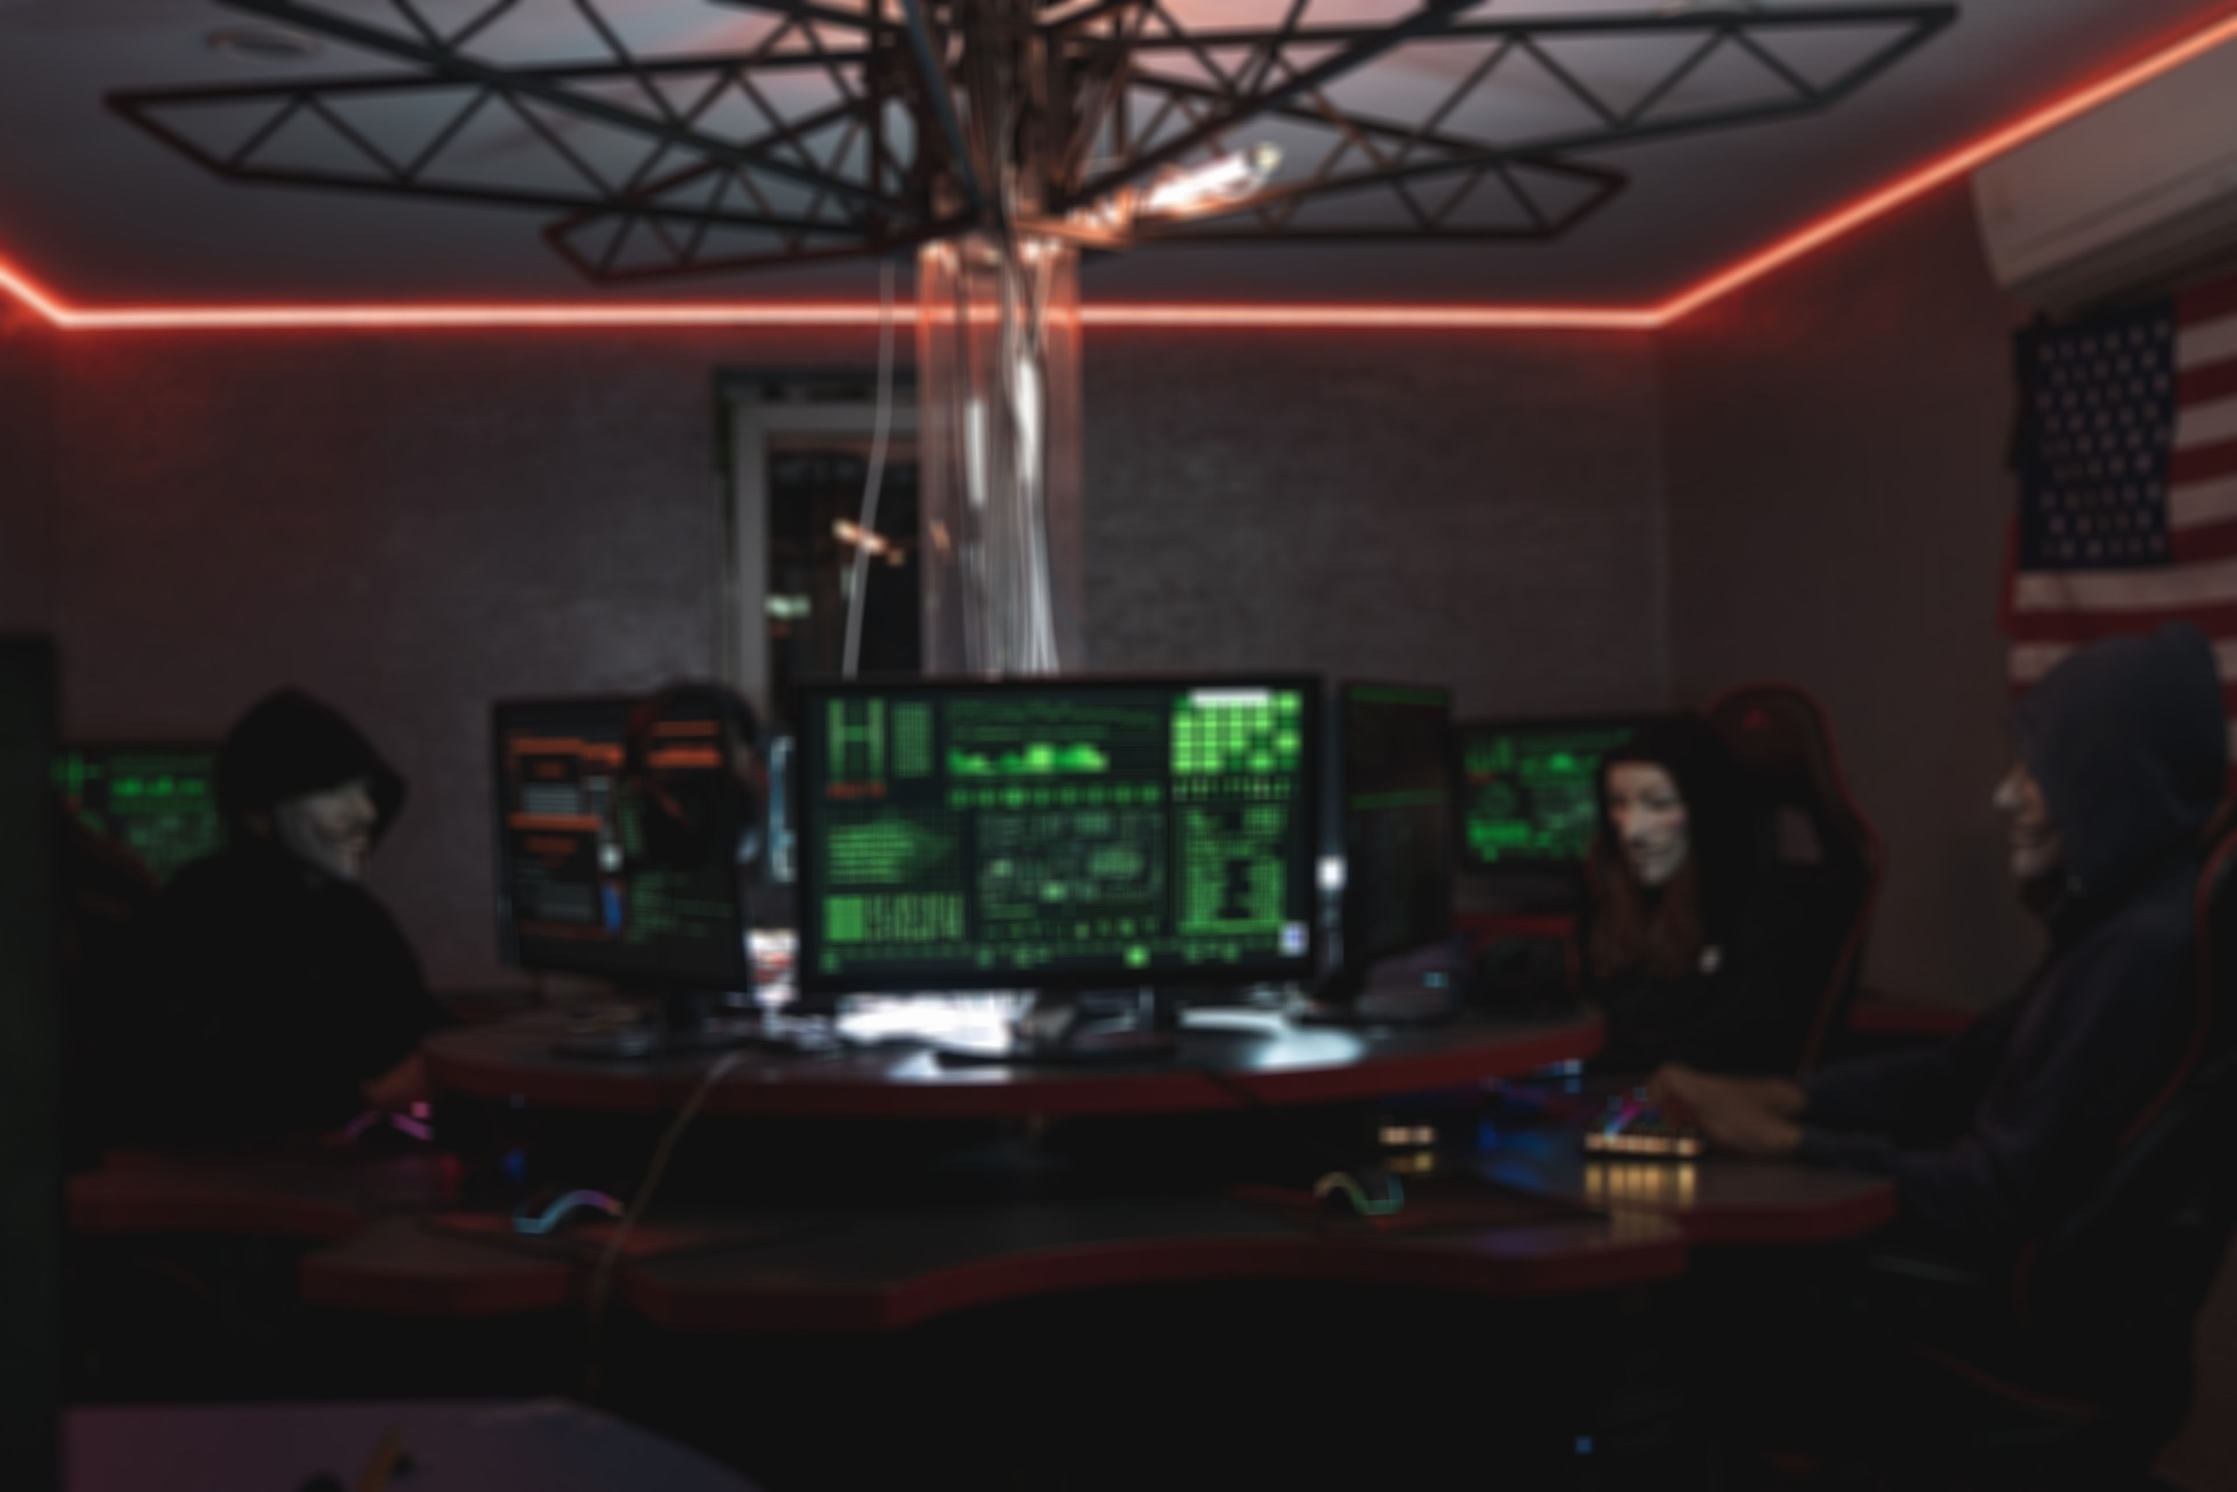
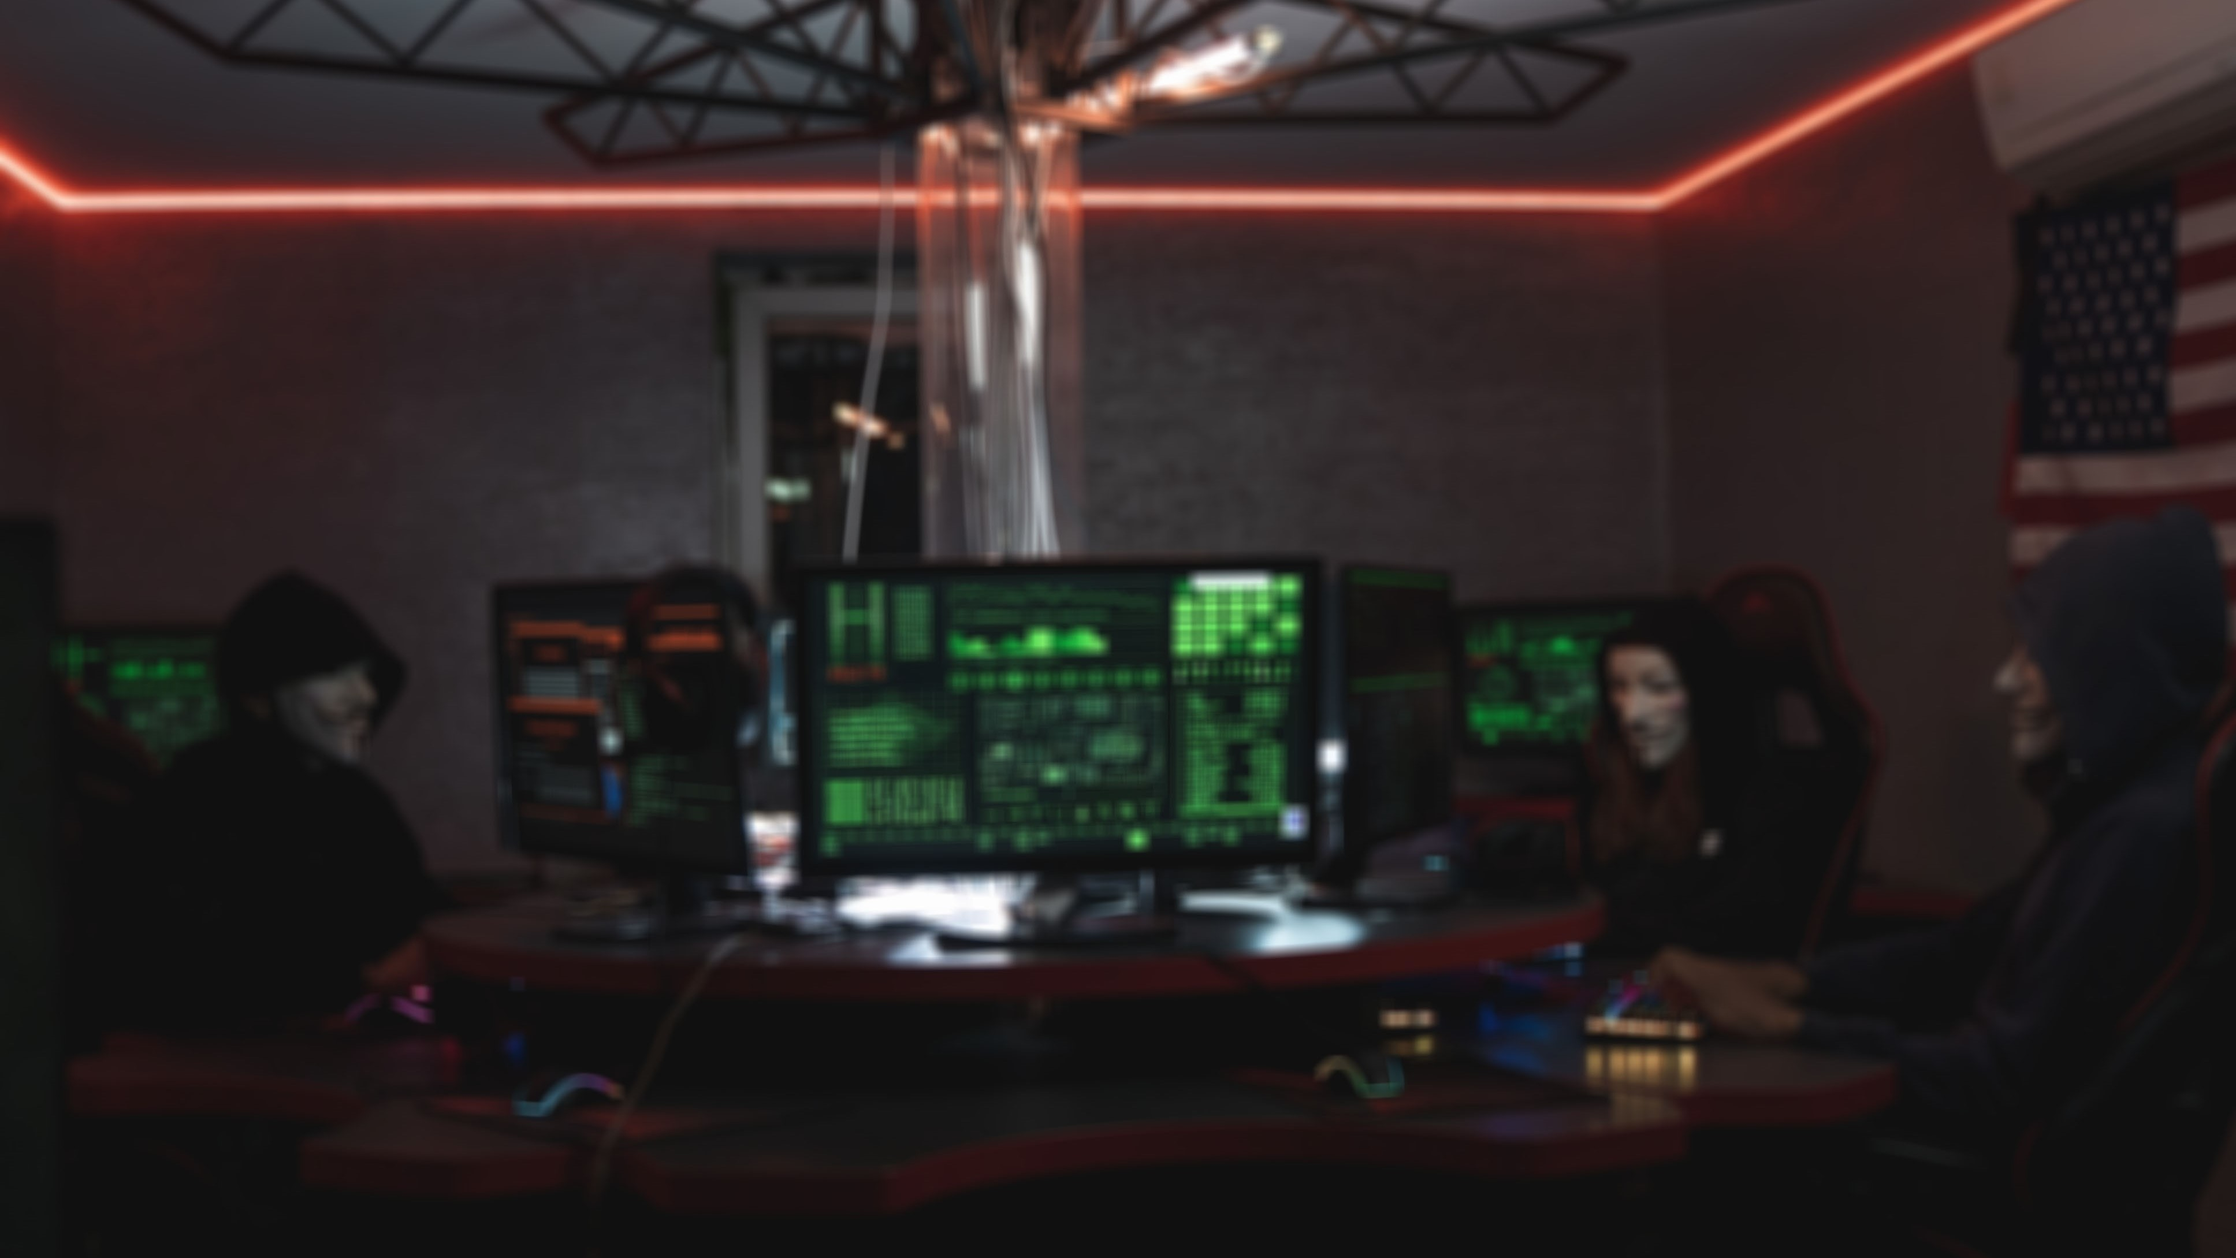
Add all pages; create navbars

diff --git a/index.html b/index.html
@@ -9,19 +9,53 @@
     <meta http-equiv="X-UA-Compatible" content="IE=edge">
   </head>
   <body> <!--style="background-image: linear-gradient(rgba(0, 0, 0, 0.8), rgba(0, 0, 0, 0.8)), url(assets/server.jpg); background-position: center; background-size: cover; background-repeat: no-repeat; background-attachment: fixed;"-->
-    <div class="collapse" id="navbarToggleExternalContent">
-      <div class="bg-dark p-4">
-        <h5 class="text-white h4">Collapsed content</h5>
-        <span class="text-muted">Toggleable via the navbar brand.</span>
+    <div class="mobile-nav">
+      <div class="collapse" id="navbarToggleExternalContent">
+        <div class="bg-dark px-3 pt-3">
+          <ul class="navbar-nav">
+            <li class="nav-item">
+              <a class="nav-link" href="/about.html">About</a>
+            </li>
+            <li class="nav-item">
+              <a class="nav-link" href="/products.html">Products</a>
+            </li>
+            <li class="nav-item">
+              <a class="nav-link" href="/faq.html">FAQ</a>
+            </li>
+            <li class="nav-item">
+              <a class="nav-link" href="/contact.html">Contact</a>
+            </li>
+          </ul>
+        </div>
       </div>
+      <nav class="navbar navbar-dark bg-dark">
+        <div class="container-fluid">
+          <a class="navbar-brand" href="/index.html"><img src="assets/reflex.png" width="100px"></a>
+          <button class="navbar-toggler" type="button" data-bs-toggle="collapse" data-bs-target="#navbarToggleExternalContent" aria-controls="navbarToggleExternalContent" aria-expanded="false" aria-label="Toggle navigation">
+            <span class="navbar-toggler-icon"></span>
+          </button>
+        </div>
+      </nav>
     </div>
-    <nav class="navbar navbar-dark bg-dark">
-      <div class="container-fluid">
-        <button class="navbar-toggler" type="button" data-bs-toggle="collapse" data-bs-target="#navbarToggleExternalContent" aria-controls="navbarToggleExternalContent" aria-expanded="false" aria-label="Toggle navigation">
-          <span class="navbar-toggler-icon"></span>
-        </button>
-      </div>
-    </nav>
+    <div class="desktop-nav">
+      <nav class="navbar navbar-expand-lg navbar-dark bg-dark">
+        <a class="navbar-brand mx-3" href="/index.html"><img src="assets/reflex.png" width="100px"></a>
+        <ul class="navbar-nav ms-auto">
+          <li class="nav-item active mx-3">
+            <a class="nav-link p-0" href="/about.html">About</a>
+          </li>
+          <li class="nav-item mx-3">
+            <a class="nav-link p-0" href="/products.html">Products</a>
+          </li>
+          <li class="nav-item mx-3">
+            <a class="nav-link p-0" href="/faq.html">FAQ</a>
+          </li>
+          <li class="nav-item mx-3">
+            <a class="nav-link p-0" href="/contact.html">Contact</a>
+          </li>
+        </ul>
+      </nav>
+    </div>
     <div class="container container-home mt-5">
       <div id="carouselHome" class="carousel slide" data-bs-ride="carousel">
         <div class="carousel-indicators">
@@ -32,28 +66,28 @@
         </div>
         <div class="carousel-inner">
           <div class="carousel-item active">
-            <img src="assets/web.png" class="d-block w-100 h-100" alt="...">
+            <img src="assets/web.png" class="img-fluid" alt="...">
             <div class="carousel-caption d-none d-md-block">
               <h3>Website Development</h3>
               <p>Static and dynamic website development.</p>
             </div>
           </div>
           <div class="carousel-item">
-            <img src="assets/discord.png" class="d-block w-100 h-100" alt="...">
+            <img src="assets/discord.png" class="img-fluid" alt="...">
             <div class="carousel-caption d-none d-md-block">
               <h3>Discord Bot Development</h3>
               <p>Discord bots to manage your servers and preform various tasks.</p>
             </div>
           </div>
           <div class="carousel-item">
-            <img src="assets/python.jpg" class="d-block w-100 h-100" alt="...">
+            <img src="assets/python.jpg" class="img-fluid" alt="...">
             <div class="carousel-caption d-none d-md-block">
               <h3>Python application Development</h3>
               <p>Python applications for almost anything you would like.</p>
             </div>
           </div>
           <div class="carousel-item">
-            <img src="assets/1337.jpg" class="d-block w-100 h-100" alt="...">
+            <img src="assets/1337.jpg" class="img-fluid" alt="...">
             <div class="carousel-caption d-none d-md-block">
               <h3>Malicious Script</h3>
               <p>Want to be a 1337 hacker man and look cool? Then this service is for you!</p>
@@ -68,6 +102,16 @@
           <span class="carousel-control-next-icon" aria-hidden="true"></span>
           <span class="visually-hidden">Next</span>
         </button>
+      </div>
+      <div class="mobile-home mt-5">
+        <h1>Website Development</h1>
+        <p>Static and dynamic website development.</p>
+        <h1>Discord Bot Development</h1>
+        <p>Discord bots to manage your servers and preform various tasks.</p>
+        <h1>Python application Development</h1>
+        <p>Python applications for almost anything you would like.</p>
+        <h1>Malicious Script</h1>
+        <p>Want to be a 1337 hacker man and look cool? Then this service is for you!</p>
       </div>
     </div>
     <script src="https://cdn.jsdelivr.net/npm/@popperjs/core@2.9.2/dist/umd/popper.min.js" integrity="sha384-IQsoLXl5PILFhosVNubq5LC7Qb9DXgDA9i+tQ8Zj3iwWAwPtgFTxbJ8NT4GN1R8p" crossorigin="anonymous"></script>

diff --git a/contact.html b/contact.html
@@ -10,10 +10,57 @@
         <meta http-equiv="X-UA-Compatible" content="IE=edge">
     </head>
     <body>
+        <div class="mobile-nav">
+            <div class="collapse" id="navbarToggleExternalContent">
+              <div class="bg-dark px-3 pt-3">
+                <ul class="navbar-nav">
+                  <li class="nav-item">
+                    <a class="nav-link" href="/about.html">About</a>
+                  </li>
+                  <li class="nav-item">
+                    <a class="nav-link" href="/products.html">Products</a>
+                  </li>
+                  <li class="nav-item">
+                    <a class="nav-link" href="/faq.html">FAQ</a>
+                  </li>
+                  <li class="nav-item active">
+                    <a class="nav-link" href="/contact.html">Contact</a>
+                  </li>
+                </ul>
+              </div>
+            </div>
+            <nav class="navbar navbar-dark bg-dark">
+              <div class="container-fluid">
+                <a class="navbar-brand" href="/index.html"><img src="assets/reflex.png" width="100px"></a>
+                <button class="navbar-toggler" type="button" data-bs-toggle="collapse" data-bs-target="#navbarToggleExternalContent" aria-controls="navbarToggleExternalContent" aria-expanded="false" aria-label="Toggle navigation">
+                  <span class="navbar-toggler-icon"></span>
+                </button>
+              </div>
+            </nav>
+        </div>
+        <div class="desktop-nav">
+            <nav class="navbar navbar-expand-lg navbar-dark bg-dark">
+              <a class="navbar-brand mx-3" href="/index.html"><img src="assets/reflex.png" width="100px"></a>
+              <ul class="navbar-nav ms-auto">
+                <li class="nav-item mx-3">
+                  <a class="nav-link p-0" href="/about.html">About</a>
+                </li>
+                <li class="nav-item mx-3">
+                  <a class="nav-link p-0" href="/products.html">Products</a>
+                </li>
+                <li class="nav-item mx-3">
+                  <a class="nav-link p-0" href="/faq.html">FAQ</a>
+                </li>
+                <li class="nav-item mx-3 active">
+                  <a class="nav-link p-0" href="/contact.html">Contact</a>
+                </li>
+              </ul>
+            </nav>
+        </div>
         <div class="container mt-5">
-            <div class="card contact-card" style="border-radius: 20px;">
-                <div class="row">
-                    <div class="col-md-6 p-4">
+            <div class="row">
+                <div class="col-lg-6">
+                    <div class="card p-4 mb-4" style="border-radius: 20px;">
                         <h1>Message</h1>
                         <div class="contact-form">
                             <form action="#" method="POST">
@@ -29,7 +76,9 @@
                             </form>
                         </div>
                     </div>
-                    <div class="col-md-6 p-4">                
+                </div>
+                <div class="col-lg-6">
+                    <div class="card p-4 mb-4" style="border-radius: 20px;">
                         <h1>Contact</h1>
                         <ul class="contact-list">
                             <a href="mailto:info@reflexdevelopment.xyz">
@@ -41,13 +90,13 @@
                             <a href="https://www.instagram.com/reflexdevelopment/" target="_blank">
                                 <li><i class="bi bi-instagram"></i>@reflexdevelopment</li>
                             </a>
-                            <a href="https://twitter.com/reflexdevelopm1" target="_blank">
-                                <li><i class="bi bi-twitter"></i>@reflexdevelopm1</li>
+                            <a href="https://twitter.com/reflexdevelop" target="_blank">
+                                <li><i class="bi bi-twitter"></i>@reflexdevelop</li>
                             </a>
                         </ul>
                     </div>
                 </div>
-            </div>  
+            </div>
         </div>
         <script src="https://code.jquery.com/jquery-2.1.3.min.js"></script>
         <script src="https://cdn.jsdelivr.net/npm/bootstrap@5.0.2/dist/js/bootstrap.bundle.min.js" integrity="sha384-MrcW6ZMFYlzcLA8Nl+NtUVF0sA7MsXsP1UyJoMp4YLEuNSfAP+JcXn/tWtIaxVXM" crossorigin="anonymous"></script>

diff --git a/about.html b/about.html
@@ -2,7 +2,7 @@
 <html lang="en" dir="ltr">
     <head>
         <meta charset="UTF-8">
-        <title>Reflex Development | Products</title>
+        <title>Reflex Development | About</title>
         <meta name="viewport" content="width=device-width, inital-scale=1.0">
         <link rel="stylesheet" href="css/styles.css">
         <link href="https://cdn.jsdelivr.net/npm/bootstrap@5.0.2/dist/css/bootstrap.min.css" rel="stylesheet" integrity="sha384-EVSTQN3/azprG1Anm3QDgpJLIm9Nao0Yz1ztcQTwFspd3yD65VohhpuuCOmLASjC" crossorigin="anonymous">
@@ -14,10 +14,10 @@
             <div class="collapse" id="navbarToggleExternalContent">
               <div class="bg-dark px-3 pt-3">
                 <ul class="navbar-nav">
-                  <li class="nav-item">
+                  <li class="nav-item active">
                     <a class="nav-link" href="/about.html">About</a>
                   </li>
-                  <li class="nav-item active">
+                  <li class="nav-item">
                     <a class="nav-link" href="/products.html">Products</a>
                   </li>
                   <li class="nav-item">
@@ -42,10 +42,10 @@
             <nav class="navbar navbar-expand-lg navbar-dark bg-dark">
               <a class="navbar-brand mx-3" href="/index.html"><img src="assets/reflex.png" width="100px"></a>
               <ul class="navbar-nav ms-auto">
-                <li class="nav-item mx-3">
+                <li class="nav-item mx-3 active">
                   <a class="nav-link p-0" href="/about.html">About</a>
                 </li>
-                <li class="nav-item mx-3 active">
+                <li class="nav-item mx-3">
                   <a class="nav-link p-0" href="/products.html">Products</a>
                 </li>
                 <li class="nav-item mx-3">
@@ -58,7 +58,7 @@
             </nav>
         </div>
         <div class="container mt-5">
-            <h1>Products</h1>
+            <h1>About</h1>
         </div>
         <script src="https://code.jquery.com/jquery-2.1.3.min.js"></script>
         <script src="https://cdn.jsdelivr.net/npm/bootstrap@5.0.2/dist/js/bootstrap.bundle.min.js" integrity="sha384-MrcW6ZMFYlzcLA8Nl+NtUVF0sA7MsXsP1UyJoMp4YLEuNSfAP+JcXn/tWtIaxVXM" crossorigin="anonymous"></script>

diff --git a/faq.html b/faq.html
@@ -2,7 +2,7 @@
 <html lang="en" dir="ltr">
     <head>
         <meta charset="UTF-8">
-        <title>Reflex Development | Products</title>
+        <title>Reflex Development | FAQ</title>
         <meta name="viewport" content="width=device-width, inital-scale=1.0">
         <link rel="stylesheet" href="css/styles.css">
         <link href="https://cdn.jsdelivr.net/npm/bootstrap@5.0.2/dist/css/bootstrap.min.css" rel="stylesheet" integrity="sha384-EVSTQN3/azprG1Anm3QDgpJLIm9Nao0Yz1ztcQTwFspd3yD65VohhpuuCOmLASjC" crossorigin="anonymous">
@@ -17,10 +17,10 @@
                   <li class="nav-item">
                     <a class="nav-link" href="/about.html">About</a>
                   </li>
-                  <li class="nav-item active">
+                  <li class="nav-item">
                     <a class="nav-link" href="/products.html">Products</a>
                   </li>
-                  <li class="nav-item">
+                  <li class="nav-item active">
                     <a class="nav-link" href="/faq.html">FAQ</a>
                   </li>
                   <li class="nav-item">
@@ -45,10 +45,10 @@
                 <li class="nav-item mx-3">
                   <a class="nav-link p-0" href="/about.html">About</a>
                 </li>
-                <li class="nav-item mx-3 active">
+                <li class="nav-item mx-3">
                   <a class="nav-link p-0" href="/products.html">Products</a>
                 </li>
-                <li class="nav-item mx-3">
+                <li class="nav-item mx-3 active">
                   <a class="nav-link p-0" href="/faq.html">FAQ</a>
                 </li>
                 <li class="nav-item mx-3">
@@ -58,7 +58,7 @@
             </nav>
         </div>
         <div class="container mt-5">
-            <h1>Products</h1>
+            <h1>FAQ</h1>
         </div>
         <script src="https://code.jquery.com/jquery-2.1.3.min.js"></script>
         <script src="https://cdn.jsdelivr.net/npm/bootstrap@5.0.2/dist/js/bootstrap.bundle.min.js" integrity="sha384-MrcW6ZMFYlzcLA8Nl+NtUVF0sA7MsXsP1UyJoMp4YLEuNSfAP+JcXn/tWtIaxVXM" crossorigin="anonymous"></script>

diff --git a/css/styles.css b/css/styles.css
@@ -1,6 +1,6 @@
 @import url('https://fonts.googleapis.com/css2?family=Lato:ital,wght@0,100;0,300;0,400;0,700;0,900;1,100;1,300;1,400;1,700;1,900&display=swap');
 :root{
-    --mount-meadow: #18dcff;
+    --mount-meadow: #188fff;
     --white-smoke: #f0f0f0;
     --night-rider: #2c2c2c;
     --black: #191b17;
@@ -21,6 +21,15 @@ p,li,a,label{
     color: var(--night-rider);
 }
 
+.nav-item a{
+    padding: 0;
+    color: rgba(255,255,255,.55);
+}
+
+.active a{
+    color: rgba(255,255,255,.75);
+}
+
 /* index.html */
 
 .container-home h1,h2,h3,h4,h5,h6,p{
@@ -28,8 +37,35 @@ p,li,a,label{
 }
 
 .carousel-item{
-    height: 50em;
     background: var(--night-rider);
+}
+
+.carousel-item img{
+    max-width: 100%;
+    height: auto;
+}
+
+@media screen and (min-width: 769px){    
+    .mobile-nav{
+        display: none;
+    }
+    .mobile-home{
+        display: none;
+    }
+}
+
+@media screen and (max-width: 768px){
+    .desktop-nav{
+        display: none;
+    }
+
+    .mobile-home h1,h2,h3,h4,h5,h6,p{
+        color: var(--black);
+    }
+    
+    .mobile-home h1{
+        color: var(--mount-meadow);
+    }
 }
 
 /* contact.html */
